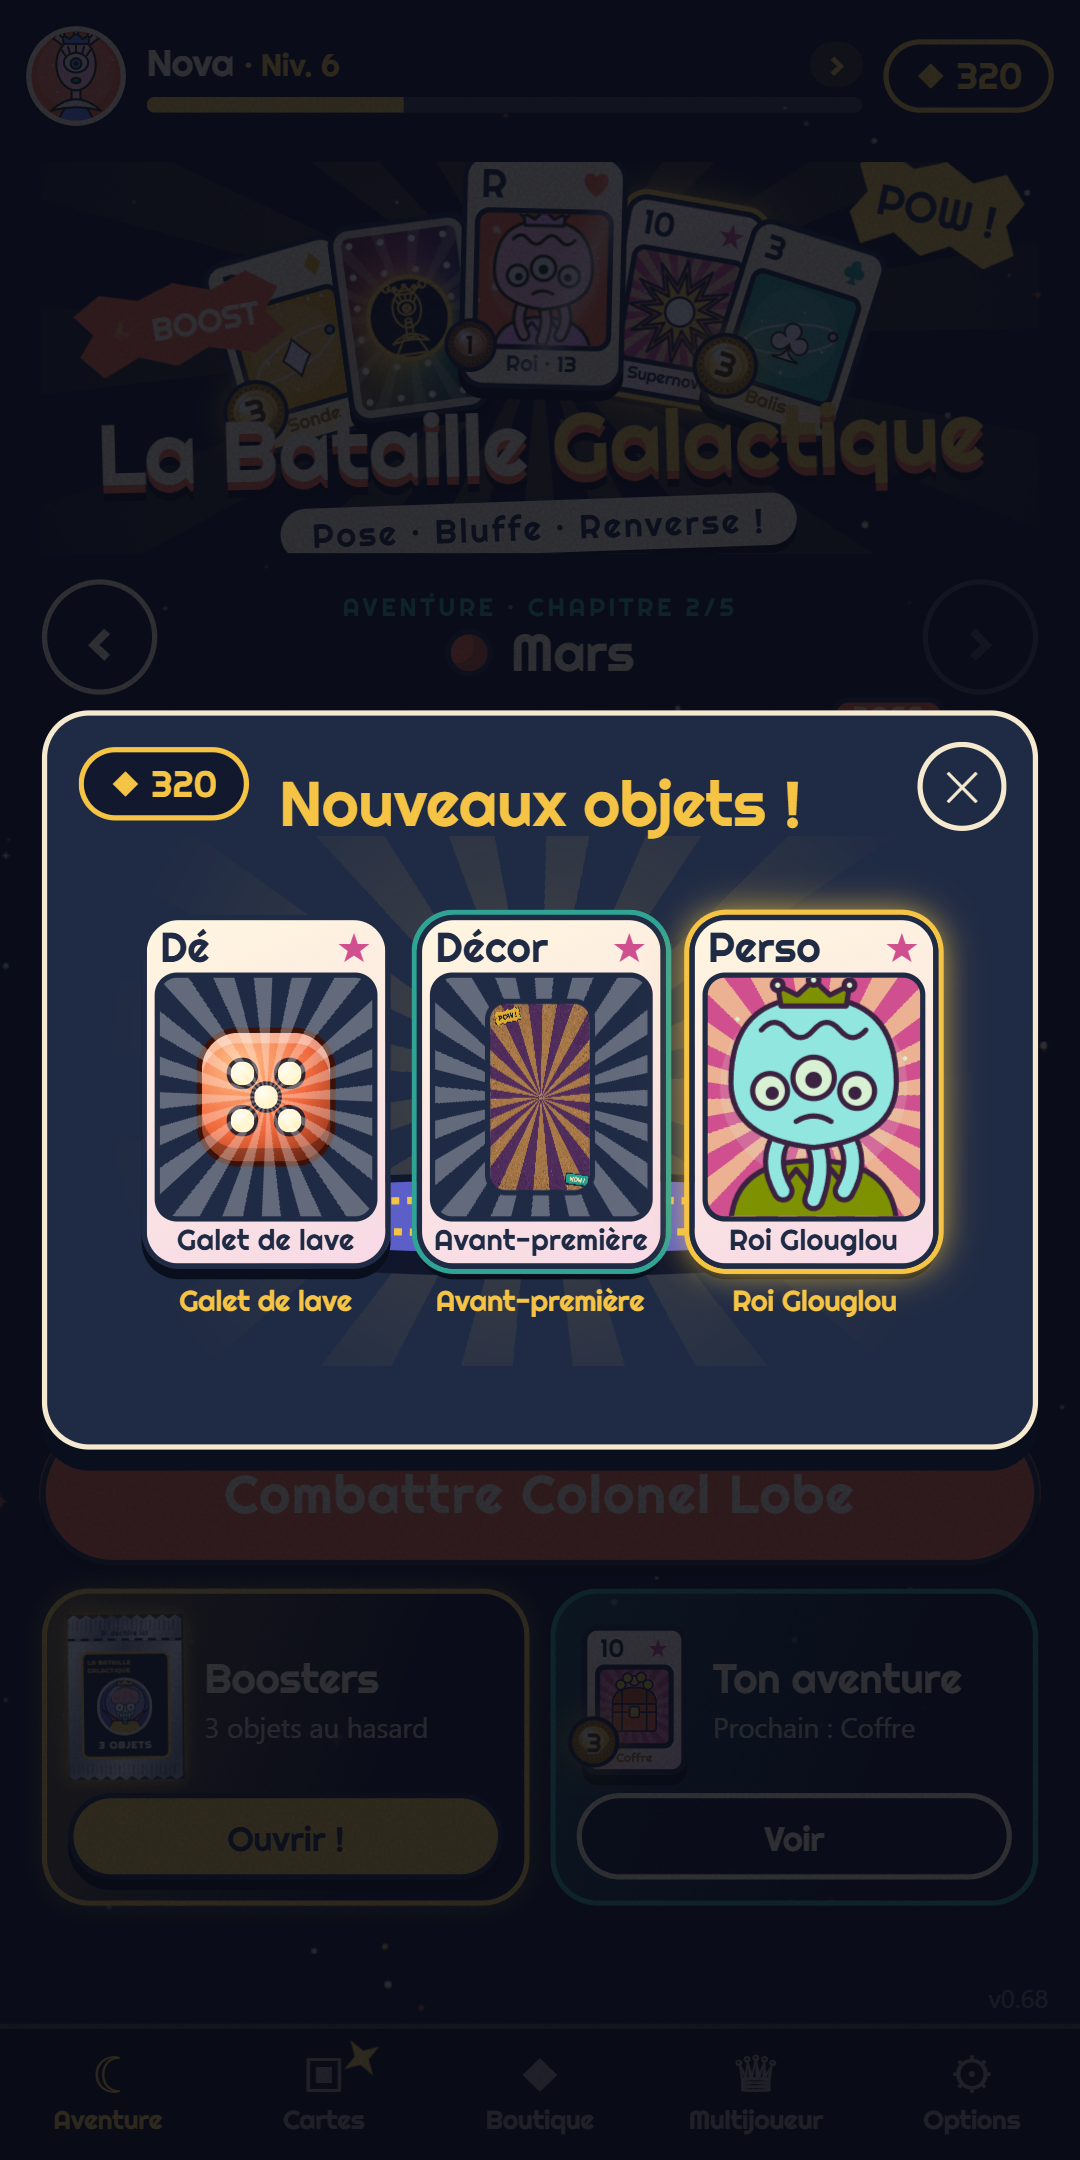
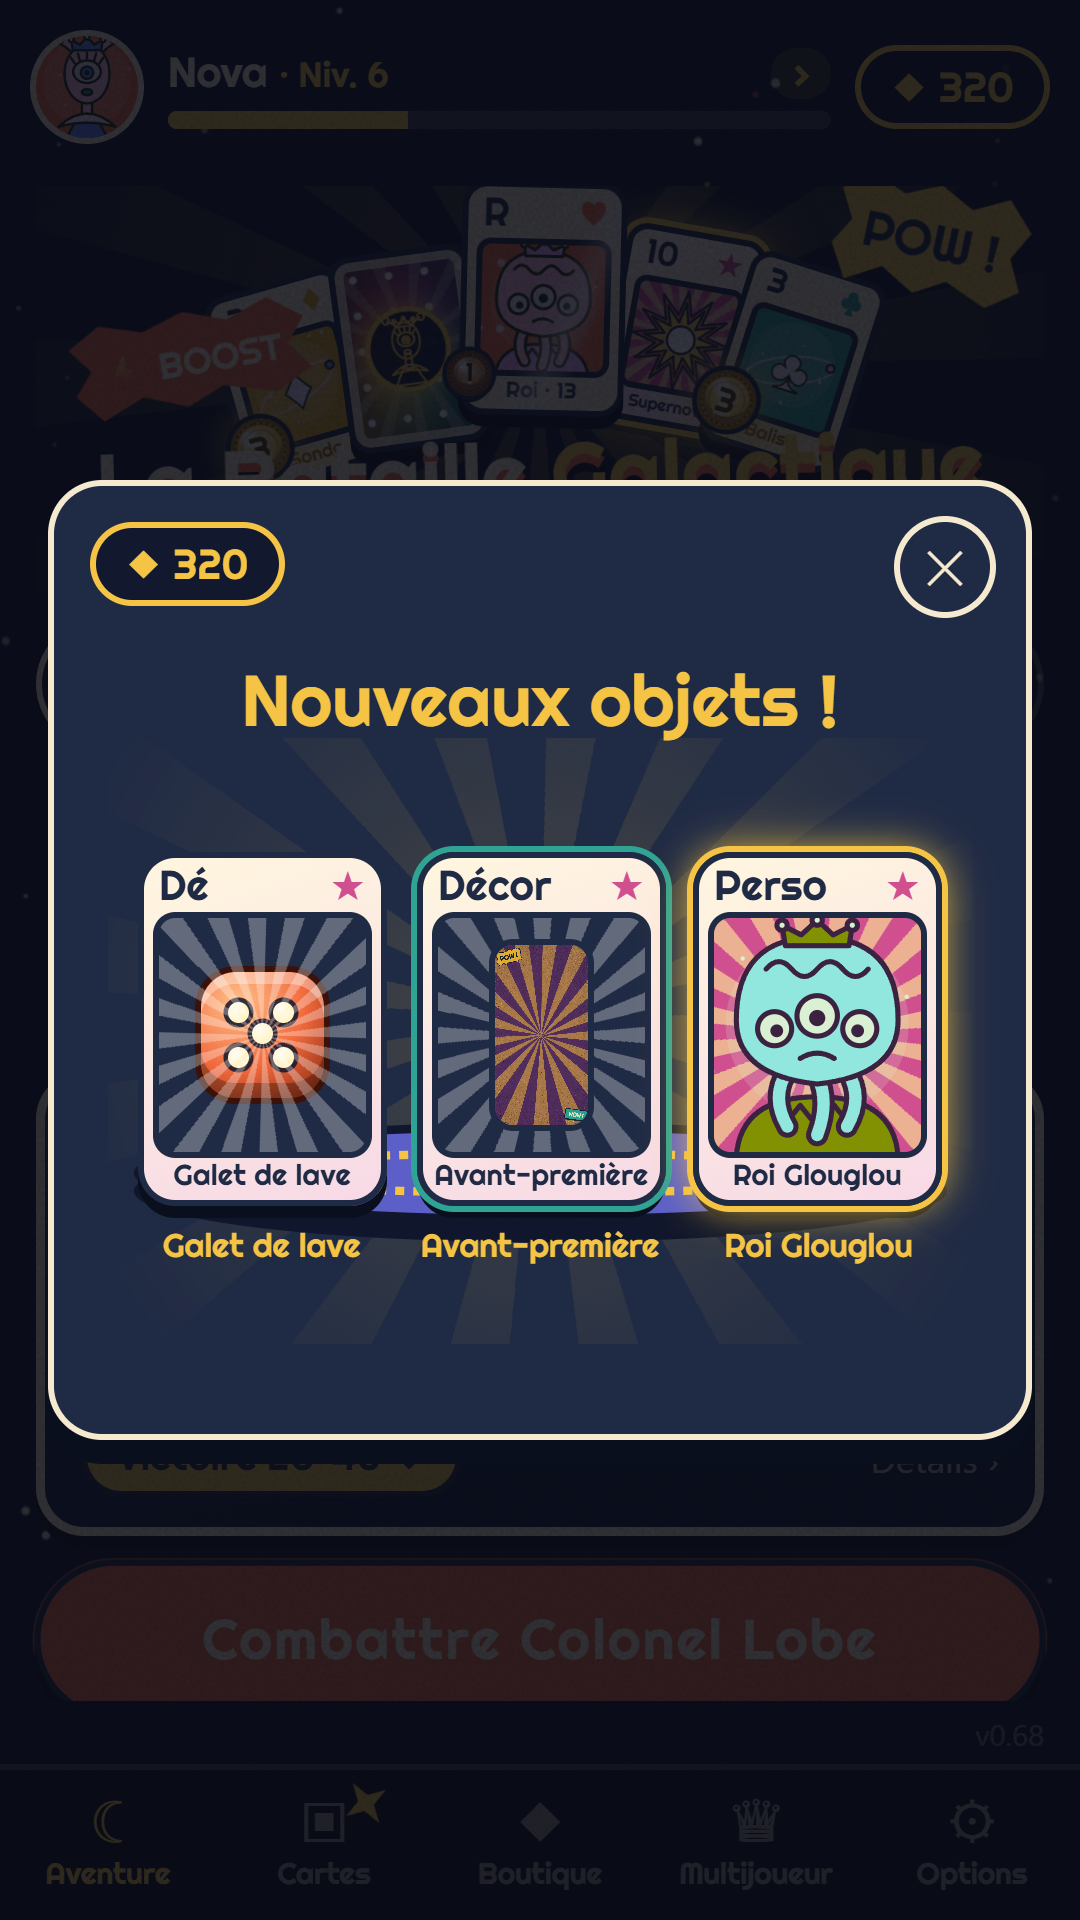
Captures Play Store en 9:16, titre du booster dégagé des boutons

diff --git a/public/cosmos.html b/public/cosmos.html
@@ -255,7 +255,9 @@
     .xclose { position: absolute; top: 10px; right: 10px; z-index: 3; width: 34px; height: 34px; padding: 0; border-radius: 50%; border: 2px solid var(--cream); background: var(--navy); color: var(--cream); font-size: 1rem; line-height: 1; }
     .cap-gems { position: absolute; top: 12px; left: 12px; z-index: 3; color: var(--yellow); border-color: var(--yellow); }
     .cap-gems b { font-weight: 400; }
-    .cap-sheet h2, .boosters-sheet h2, .journey-sheet .j-head { padding: 0 44px; }
+    .boosters-sheet h2, .journey-sheet .j-head { padding: 0 44px; }
+    /* The balance pill and the close cross sit on their own row above the title, so a long title never runs under them. */
+    .sheet.cap-sheet h2 { margin-top: 38px; }
     .cap-slot.dup .card { opacity: 0.45; transition: opacity 400ms; }
     .fly-coin { position: absolute; left: 0; top: 0; z-index: 60; width: 28px; height: 28px; pointer-events: none; }
     .linkish { margin: 10px auto 0; display: block; padding: 4px 8px; border: 0; background: none; color: rgba(245, 233, 207, 0.7); font-size: 0.8rem; text-decoration: underline; }
